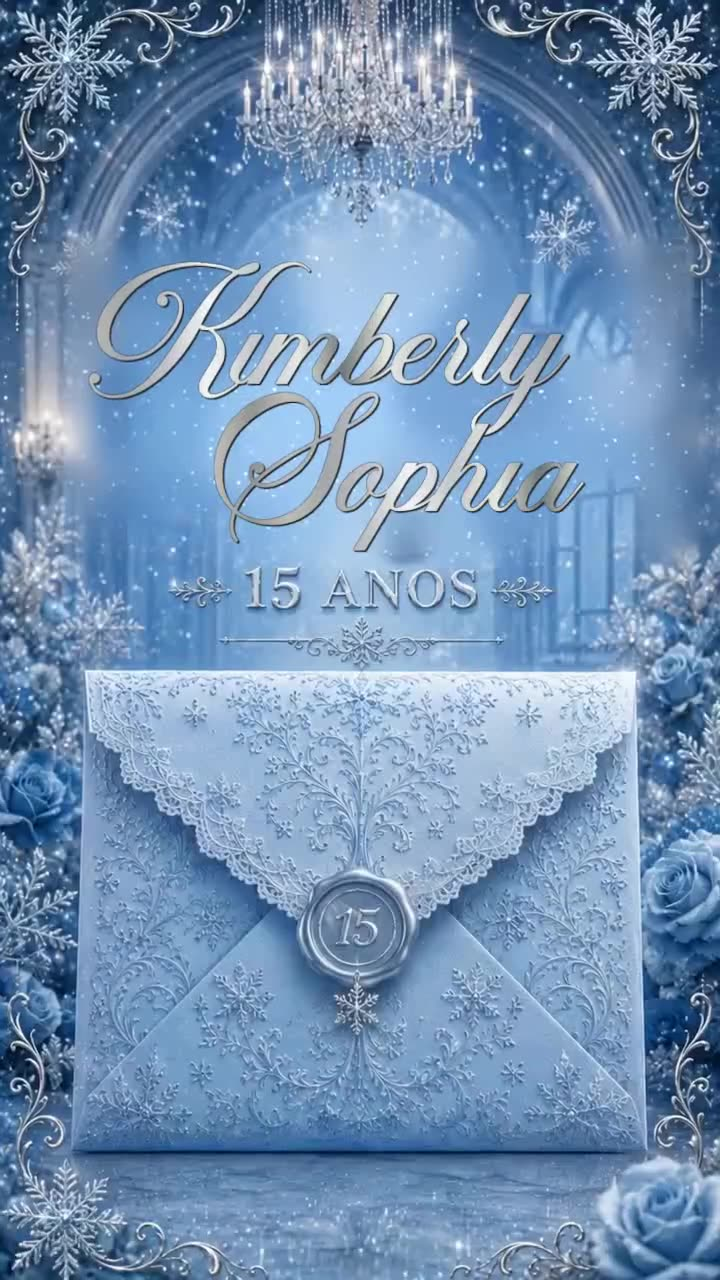
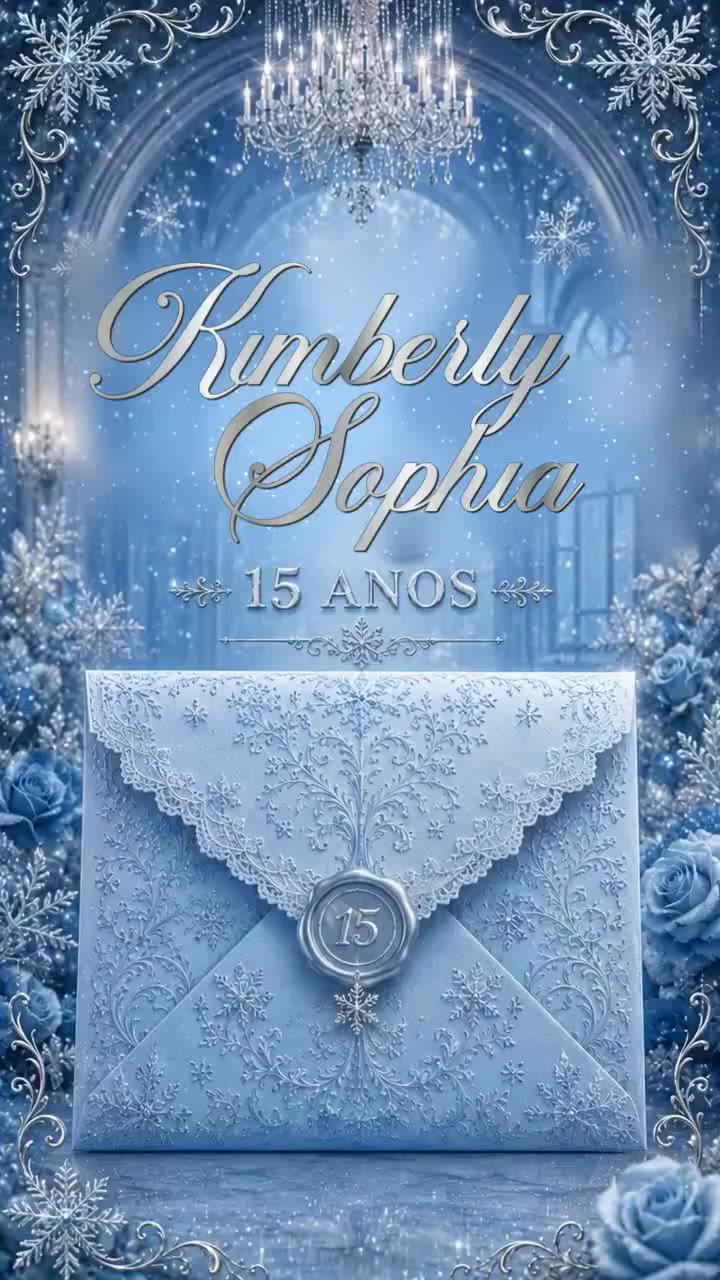
Convite Kimberly Sophia: tela inicial "Abrir convite"
Navegadores só liberam som após um toque/clique do visitante. A tela
inicial é o 1º quadro do vídeo (envelope fechado) com neve, brilhos e o
botão; ao tocar, o vídeo começa do zero junto com a música.

Claude-Session: https://claude.ai/code/session_01LVVNb4Yr8EPQzo4pokkp3q

diff --git a/site/convites/2027-02-06-kimberly-sophia/index.html b/site/convites/2027-02-06-kimberly-sophia/index.html
@@ -44,12 +44,20 @@ if(!location.pathname.endsWith('/')&&!/\.[a-z0-9]+$/i.test(location.pathname))lo
   .sr{position:absolute;width:1px;height:1px;overflow:hidden;clip:rect(0 0 0 0)}
 
   @keyframes fadeUp{from{opacity:0;transform:translateY(14px)}to{opacity:1;transform:none}}
-  canvas.fx{position:absolute;inset:0;width:100%;height:100%;pointer-events:none;z-index:4;transition:opacity .8s}
+  canvas.fx{position:absolute;inset:0;width:100%;height:100%;pointer-events:none;z-index:6;transition:opacity .8s}
   canvas.fx.hide{opacity:0}
   .btn{font:600 clamp(15px,4.2vw,19px)/1 "Cormorant Garamond",serif;letter-spacing:.12em;text-transform:uppercase;
        color:var(--navy);background:linear-gradient(180deg,#fff,#dbe9f7);border:2px solid #fff;border-radius:999px;
        padding:14px 26px;box-shadow:0 6px 24px rgba(40,80,130,.35),inset 0 0 0 1px #b8c8d8;cursor:pointer}
   @keyframes breathe{50%{transform:scale(1.05)}}
+  /* tela inicial: o próprio 1º quadro do vídeo (envelope fechado) + botão */
+  .intro{position:absolute;inset:0;z-index:5;background:url(assets/primeiro-quadro.jpg) center/cover;cursor:pointer;
+         display:flex;align-items:flex-end;justify-content:center;padding-bottom:9%;transition:opacity .35s ease}
+  .intro.off{opacity:0;pointer-events:none}
+  .intro .btn{position:relative;overflow:hidden;opacity:0;animation:fadeUp .9s .4s ease forwards, breathe 2.6s 1.3s ease-in-out infinite}
+  .intro .btn::before{content:"";position:absolute;top:0;bottom:0;width:40%;left:-60%;
+         background:linear-gradient(100deg,transparent,rgba(255,255,255,.95),transparent);animation:sweep 3s 1s ease-in-out infinite}
+  @keyframes sweep{0%{left:-60%}55%,100%{left:130%}}
 
 
   /* modais */
@@ -75,7 +83,7 @@ if(!location.pathname.endsWith('/')&&!/\.[a-z0-9]+$/i.test(location.pathname))lo
 <div class="bg" aria-hidden="true"></div>
 
 <main class="stage" id="stage">
-  <video class="layer" id="vid" src="assets/convite.mp4" playsinline autoplay muted preload="auto" poster="assets/primeiro-quadro.jpg"></video>
+  <video class="layer" id="vid" src="assets/convite.mp4" playsinline preload="auto" poster="assets/primeiro-quadro.jpg"></video>
 
   <section class="layer final" id="final" aria-label="Convite">
     <img src="assets/convite.jpg" alt="Convite: Kimberly Sophia 15 anos. 06 de fevereiro de 2027 às 20h00, Le Partie Eventos, Rua Darcy Carrion, 121, Pq. Ind. Harmonia, Nova Odessa. Traje social obrigatório em tons de branco, cinza e azul-marinho.">
@@ -85,6 +93,9 @@ if(!location.pathname.endsWith('/')&&!/\.[a-z0-9]+$/i.test(location.pathname))lo
   </section>
 
   <audio id="bgm" loop preload="auto"></audio>
+  <div class="intro" id="intro" role="button" aria-label="Abrir convite">
+    <span class="btn">Abrir convite</span>
+  </div>
   <canvas class="fx" id="fx"></canvas>
 
 </main>
@@ -123,7 +134,7 @@ if(!location.pathname.endsWith('/')&&!/\.[a-z0-9]+$/i.test(location.pathname))lo
 
   // neve + brilhos (tela inicial e tela final)
   const cv = $('fx'), cx = cv.getContext('2d');
-  const GL = { intro: [[23.3, 83.3], [51.6, 79.2], [11.7, 6.6], [21.1, 17.0], [48.1, 78.0], [99.2, 87.9], [45.6, 88.1], [48.5, 97.9], [5.6, 41.7], [77.5, 32.4], [23.3, 33.0], [75.7, 57.6], [54.8, 81.1], [13.5, 3.6], [73.1, 5.6], [66.0, 84.5]], final: [[0.5, 51.8], [82.1, 51.0], [7.7, 88.3], [69.8, 43.1], [9.6, 50.7], [99.0, 38.7], [97.6, 31.7], [84.6, 60.2], [71.3, 9.0], [49.2, 4.5], [88.0, 63.3], [98.2, 48.6]] };
+  const GL = { intro: [[60.6, 52.5], [15.6, 53.5], [57.1, 36.6], [46.2, 5.2], [78.2, 18.4], [30.3, 28.4], [62.1, 54.0], [51.0, 53.0], [67.8, 54.0], [3.5, 5.8], [28.9, 29.8], [63.3, 52.6], [70.3, 54.1], [56.1, 70.3]], final: [[0.5, 51.8], [82.1, 51.0], [7.7, 88.3], [69.8, 43.1], [9.6, 50.7], [99.0, 38.7], [97.6, 31.7], [84.6, 60.2], [71.3, 9.0], [49.2, 4.5], [88.0, 63.3], [98.2, 48.6]] };
   let mode = 'off', W = 0, H = 0, dpr = 1;
   const fit = () => { const r = cv.getBoundingClientRect(); dpr = Math.min(2, devicePixelRatio || 1);
     W = cv.width = r.width * dpr; H = cv.height = r.height * dpr; };
@@ -195,7 +206,12 @@ if(!location.pathname.endsWith('/')&&!/\.[a-z0-9]+$/i.test(location.pathname))lo
   };
   const onTap = () => { if (needTap) unmute(); };
   ['touchend', 'pointerup', 'click', 'keydown'].forEach(ev => addEventListener(ev, onTap, { passive: true }));
-  start();
+  const intro = $('intro');
+  setFx('intro');
+  intro.addEventListener('click', () => {
+    intro.classList.add('off'); setFx('off');
+    vid.currentTime = 0; start();
+  }, { once: true });
   vid.addEventListener('timeupdate', () => { if (vid.currentTime >= AT && !fin.classList.contains('on')) showFinal(); });
   vid.addEventListener('ended', showFinal);
 
